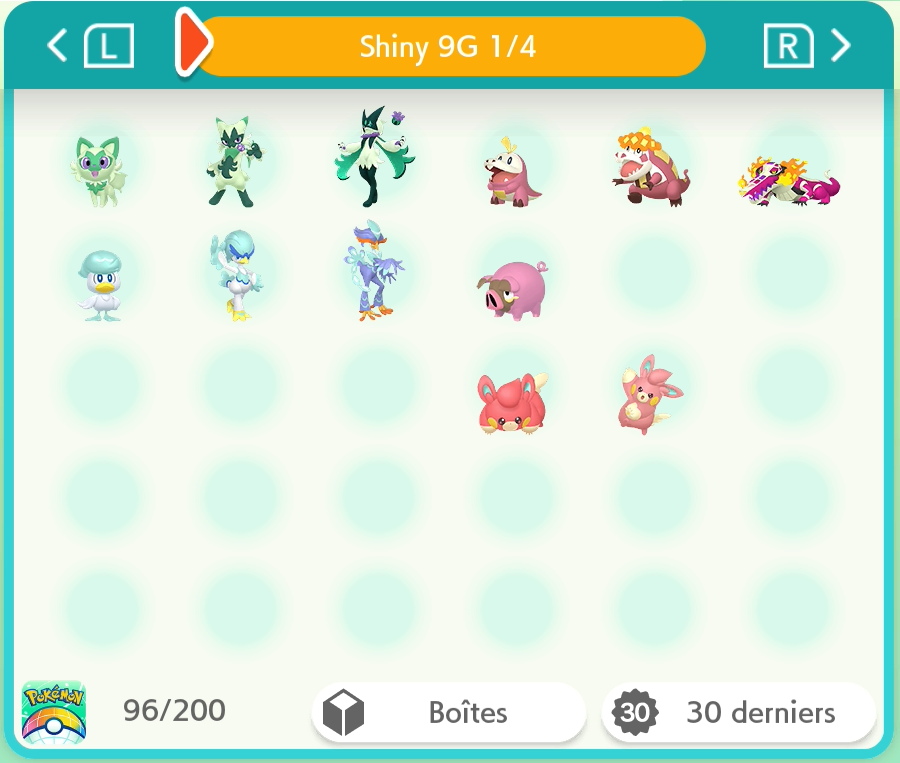
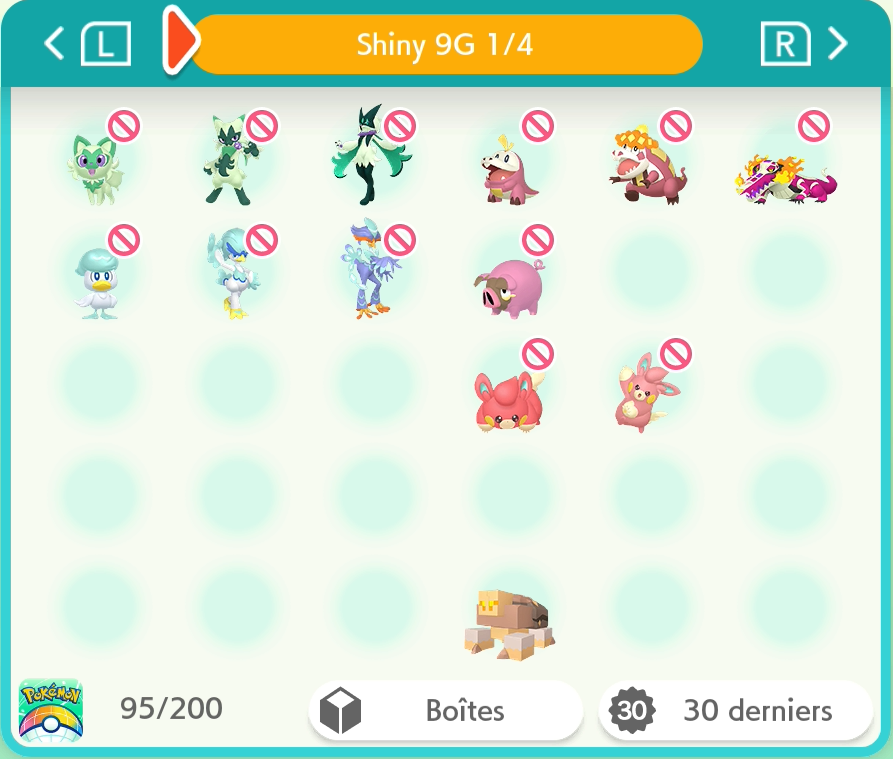
1G : Ptéra | 6G : Amagara, Dragmara & Ptyranidur | 9G : Amassel

diff --git a/README.md b/README.md
@@ -2,20 +2,20 @@
 
 Pokémon-Elément-Sh -> <a href="https://www.pokemon-element-sh.fr/profil/karyno21" target="_blank">Karyno21</a>
 
-↓ Dernière Update le 22/09/2026 à 21h15 ↓
-### Dex National [274/999] +13
+↓ Dernière Update le 23/09/2026 à 21h21 ↓
+### Dex National [279/999] +18
 
 | Gen | Prog | Notes |
 |:--:|:--:|---|
-|1G|45/151|+3 Artikodin, Électhor & Sulfura|
+|1G|46/151|+4 Artikodin, Électhor, Sulfura & Ptéra|
 |2G|37/100|+5 Celebi, Raikou, Entei, Suicune & Lugia|
 |3G|22/135|+1 Spinda|
 |4G|20/107||
 |5G|29/154|+1 Genesect (JP Event)|
-|6G|22/70||
+|6G|25/70|+3 Amagara, Dragmara & Ptyranidur|
 |7G|19/84|+3 Type:0, Silvallié & Mandrillon|
 |8G|32/90||
-|9G|45/108||
+|9G|46/108|+1 Amassel|
 
 ### Formes Régionales [58/58]
 
